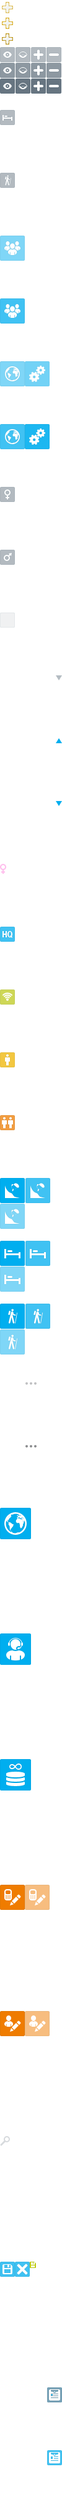
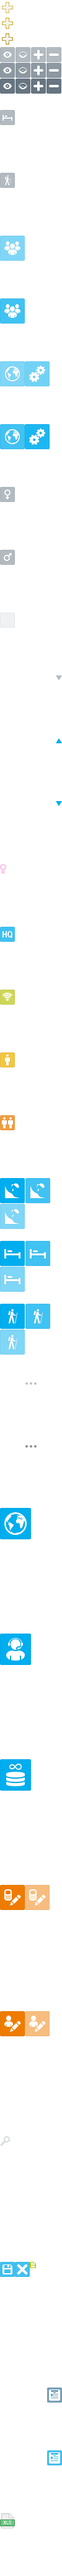
Issue #4260

diff --git a/sites/all/themes/airtribune2/css/global.styles.css b/sites/all/themes/airtribune2/css/global.styles.css
@@ -2723,6 +2723,8 @@ form .form-type-item .inline-label { top: -10px;}
 .switch-pilots-view a.manage:hover, .switch-pilots-view a.manage.active { background-position: -40px -3201px;}
 .switch-pilots-view a.confirmed { background-position: 0 -3000px; margin-right: 20px;}
 .switch-pilots-view a.confirmed:hover, .switch-pilots-view a.confirmed.active { background-position: -40px -3000px;}
+.switch-pilots-view a.export-csv-confirmed { width: auto; text-indent: 0; height: auto; background: url(../images/table_action.png) no-repeat 0 -4000px; padding: 0 0 3px 34px; color: #adb522; font-size: 14px; margin: 8px 80px 0 0;}
+
 
 #page ul.tabs.secondary { margin-top: 11px; padding-bottom: 0;}
 #page ul.tabs.secondary a { width: 41px; margin-left: 9px;}
